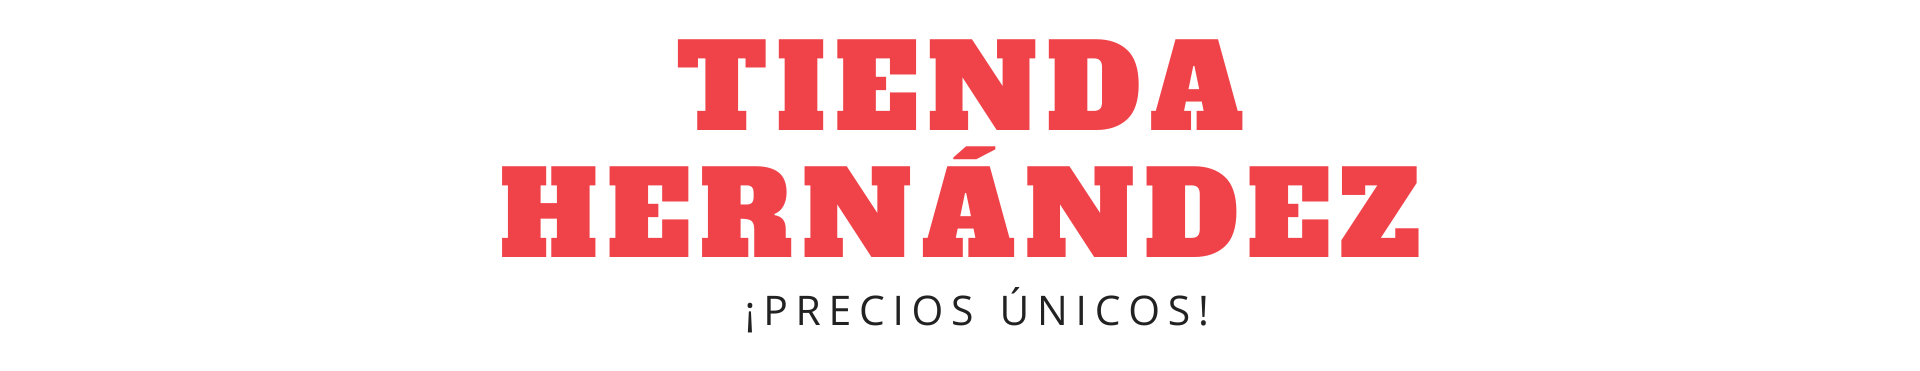
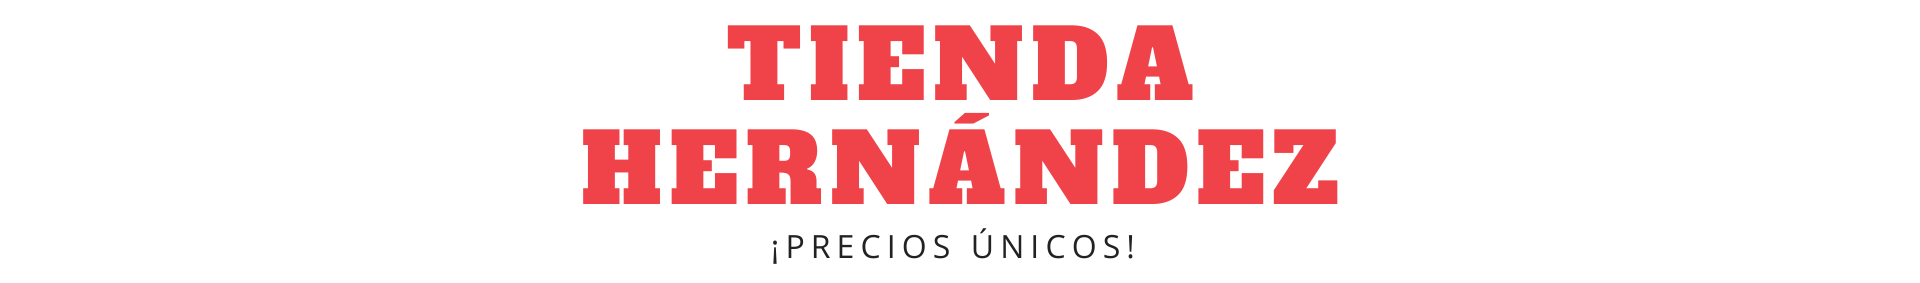
Cambios visuales 11 - 02/12/2023

Changed region(s): [[0.25, 0.3958, 0.75, 0.735], [0.3438, 0.0848, 0.6562, 0.3675], [0.375, 0.7915, 0.625, 0.9329]]

diff --git a/resources/views/presentacione/index.blade.php b/resources/views/presentacione/index.blade.php
@@ -21,7 +21,7 @@
             <li class="breadcrumb-item"><a href="{{ route('panel') }}">Inicio</a></li>
             <li class="breadcrumb-item active">Presentaciones</li>
         </ol>
-
+        <img src="{{ asset('assets/img/tienda_hernandez2.png') }}" class="d-block w-100">
         @can('crear-presentacione')
             <div class="mb-4">
                 <a href="{{ route('presentaciones.create') }}">

diff --git a/resources/views/proveedore/index.blade.php b/resources/views/proveedore/index.blade.php
@@ -23,6 +23,7 @@
             <li class="breadcrumb-item active">Proveedores</li>
         </ol>
 
+        <img src="{{ asset('assets/img/tienda_hernandez2.png') }}" class="d-block w-100">
         @can('crear-proveedore')
             <div class="mb-4">
                 <a href="{{ route('proveedores.create') }}">

diff --git a/resources/views/categoria/index.blade.php b/resources/views/categoria/index.blade.php
@@ -22,6 +22,7 @@
             <li class="breadcrumb-item active">Categorías</li>
         </ol>
 
+        <img src="{{ asset('assets/img/tienda_hernandez2.png') }}" class="d-block w-100">
         @can('crear-categoria')
             <div class="mb-4">
                 <a href="{{ route('categorias.create') }}">

diff --git a/resources/views/producto/index.blade.php b/resources/views/producto/index.blade.php
@@ -22,6 +22,7 @@
             <li class="breadcrumb-item active">Productos</li>
         </ol>
 
+        <img src="{{ asset('assets/img/tienda_hernandez2.png') }}" class="d-block w-100">
         @can('crear-producto')
             <div class="mb-4">
                 <a href="{{ route('productos.create') }}">

diff --git a/resources/views/cliente/index.blade.php b/resources/views/cliente/index.blade.php
@@ -22,6 +22,7 @@
             <li class="breadcrumb-item active">Clientes</li>
         </ol>
 
+        <img src="{{ asset('assets/img/tienda_hernandez2.png') }}" class="d-block w-100">
         @can('crear-cliente')
             <div class="mb-4">
                 <a href="{{ route('clientes.create') }}">

diff --git a/resources/views/compra/index.blade.php b/resources/views/compra/index.blade.php
@@ -26,6 +26,7 @@
             <li class="breadcrumb-item active">Compras</li>
         </ol>
 
+        <img src="{{ asset('assets/img/tienda_hernandez2.png') }}" class="d-block w-100">
         @can('crear-compra')
             <div class="mb-4">
                 <a href="{{ route('compras.create') }}">

diff --git a/resources/views/user/index.blade.php b/resources/views/user/index.blade.php
@@ -22,6 +22,7 @@
             <li class="breadcrumb-item active">Usuarios</li>
         </ol>
 
+        <img src="{{ asset('assets/img/tienda_hernandez2.png') }}" class="d-block w-100">
         @can('crear-user')
             <div class="mb-4">
                 <a href="{{ route('users.create') }}">

diff --git a/resources/views/venta/index.blade.php b/resources/views/venta/index.blade.php
@@ -26,6 +26,7 @@
             <li class="breadcrumb-item active">Ventas</li>
         </ol>
 
+        <img src="{{ asset('assets/img/tienda_hernandez2.png') }}" class="d-block w-100">
         @can('crear-venta')
             <div class="mb-4">
                 <a href="{{ route('ventas.create') }}">

diff --git a/resources/views/role/index.blade.php b/resources/views/role/index.blade.php
@@ -21,6 +21,7 @@
             <li class="breadcrumb-item active">Roles</li>
         </ol>
 
+        <img src="{{ asset('assets/img/tienda_hernandez2.png') }}" class="d-block w-100">
         @can('crear-role')
             <div class="mb-4">
                 <a href="{{ route('roles.create') }}">

diff --git a/resources/views/marca/index.blade.php b/resources/views/marca/index.blade.php
@@ -23,6 +23,7 @@
         <li class="breadcrumb-item active">Marcas</li>
     </ol>
 
+    <img src="{{ asset('assets/img/tienda_hernandez2.png') }}" class="d-block w-100">
     @can('crear-marca')
     <div class="mb-4">
         <a href="{{route('marcas.create')}}">
